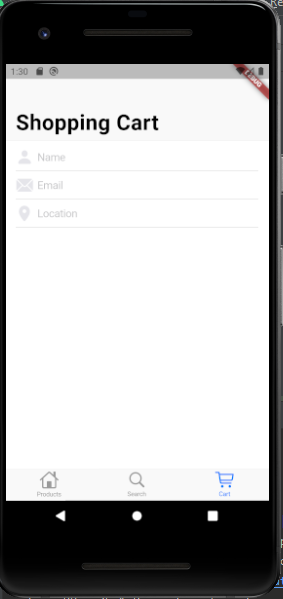
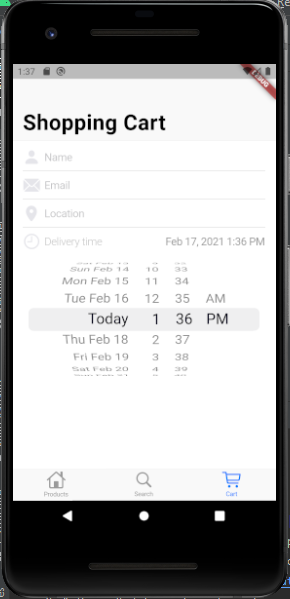
Add date picker.

diff --git a/lib/shopping_cart_tab.dart b/lib/shopping_cart_tab.dart
@@ -13,9 +13,13 @@
 // limitations under the License.
 
 import 'package:flutter/cupertino.dart';
+import 'package:intl/intl.dart';
 import 'package:provider/provider.dart';
 
 import 'model/app_state_model.dart';
+import 'styles.dart';
+
+const double _kDateTimePickerHeight = 216;
 
 class ShoppingCartTab extends StatefulWidget {
   @override
@@ -104,6 +108,49 @@ class _ShoppingCartTabState extends State<ShoppingCartTab> {
     );
   }
 
+  Widget _buildDateAndTimePicker(BuildContext context) {
+    return Column(
+      children: <Widget>[
+        Row(
+          mainAxisAlignment: MainAxisAlignment.spaceBetween,
+          children: <Widget>[
+            Row(
+              mainAxisAlignment: MainAxisAlignment.start,
+              children: const <Widget>[
+                Icon(
+                  CupertinoIcons.clock,
+                  color: CupertinoColors.lightBackgroundGray,
+                  size: 28,
+                ),
+                SizedBox(width: 6),
+                Text(
+                  'Delivery time',
+                  style: Styles.deliveryTimeLabel,
+                ),
+              ],
+            ),
+            Text(
+              DateFormat.yMMMd().add_jm().format(dateTime),
+              style: Styles.deliveryTime,
+            ),
+          ],
+        ),
+        Container(
+          height: _kDateTimePickerHeight,
+          child: CupertinoDatePicker(
+            mode: CupertinoDatePickerMode.dateAndTime,
+            initialDateTime: dateTime,
+            onDateTimeChanged: (newDateTime) {
+              setState(() {
+                dateTime = newDateTime;
+              });
+            },
+          ),
+        ),
+      ],
+    );
+  }
+
   SliverChildBuilderDelegate _buildSliverChildBuilderDelegate(
       AppStateModel model) {
     return SliverChildBuilderDelegate(
@@ -123,6 +170,11 @@ class _ShoppingCartTabState extends State<ShoppingCartTab> {
             return Padding(
               padding: const EdgeInsets.symmetric(horizontal: 16),
               child: _buildLocationField(),
+            );
+          case 3:
+            return Padding(
+              padding: const EdgeInsets.fromLTRB(16, 8, 16, 24),
+              child: _buildDateAndTimePicker(context),
             );
           default:
           // Do nothing. For now.
